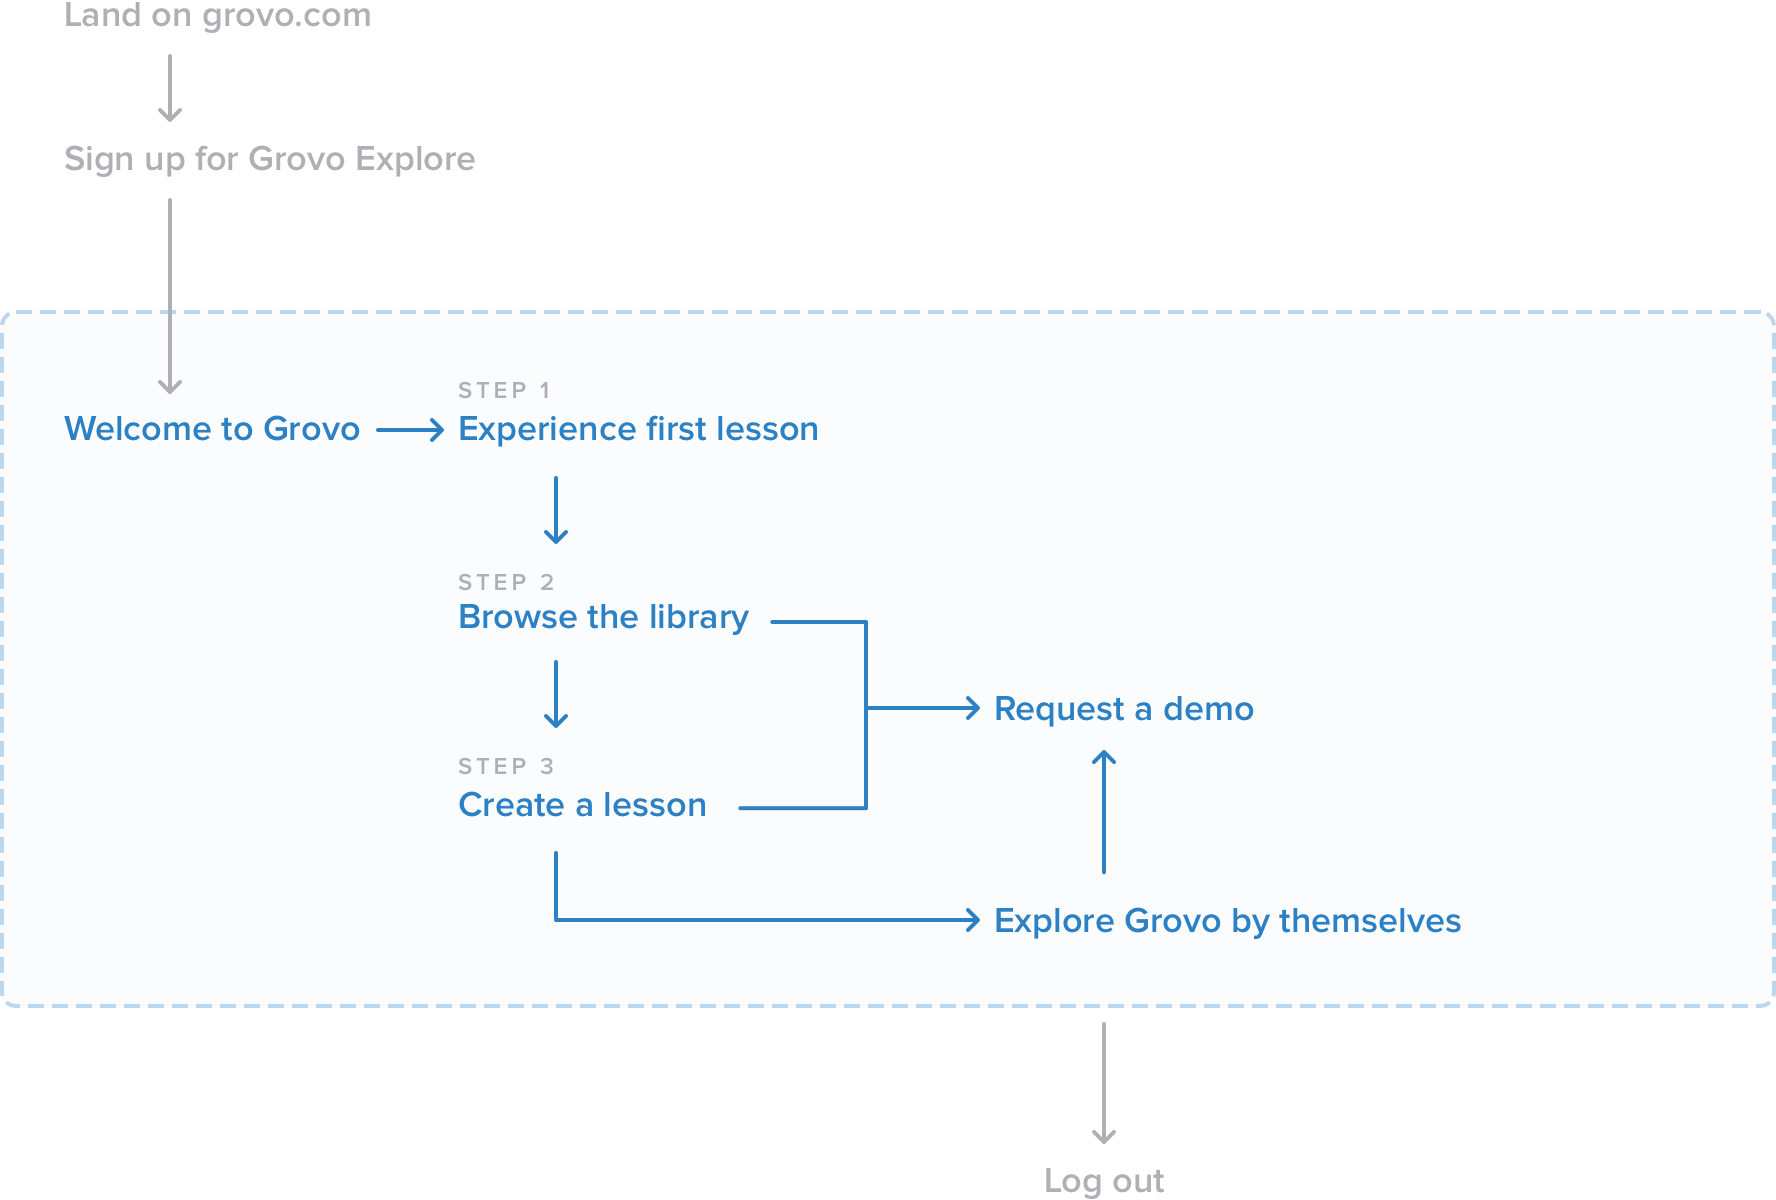
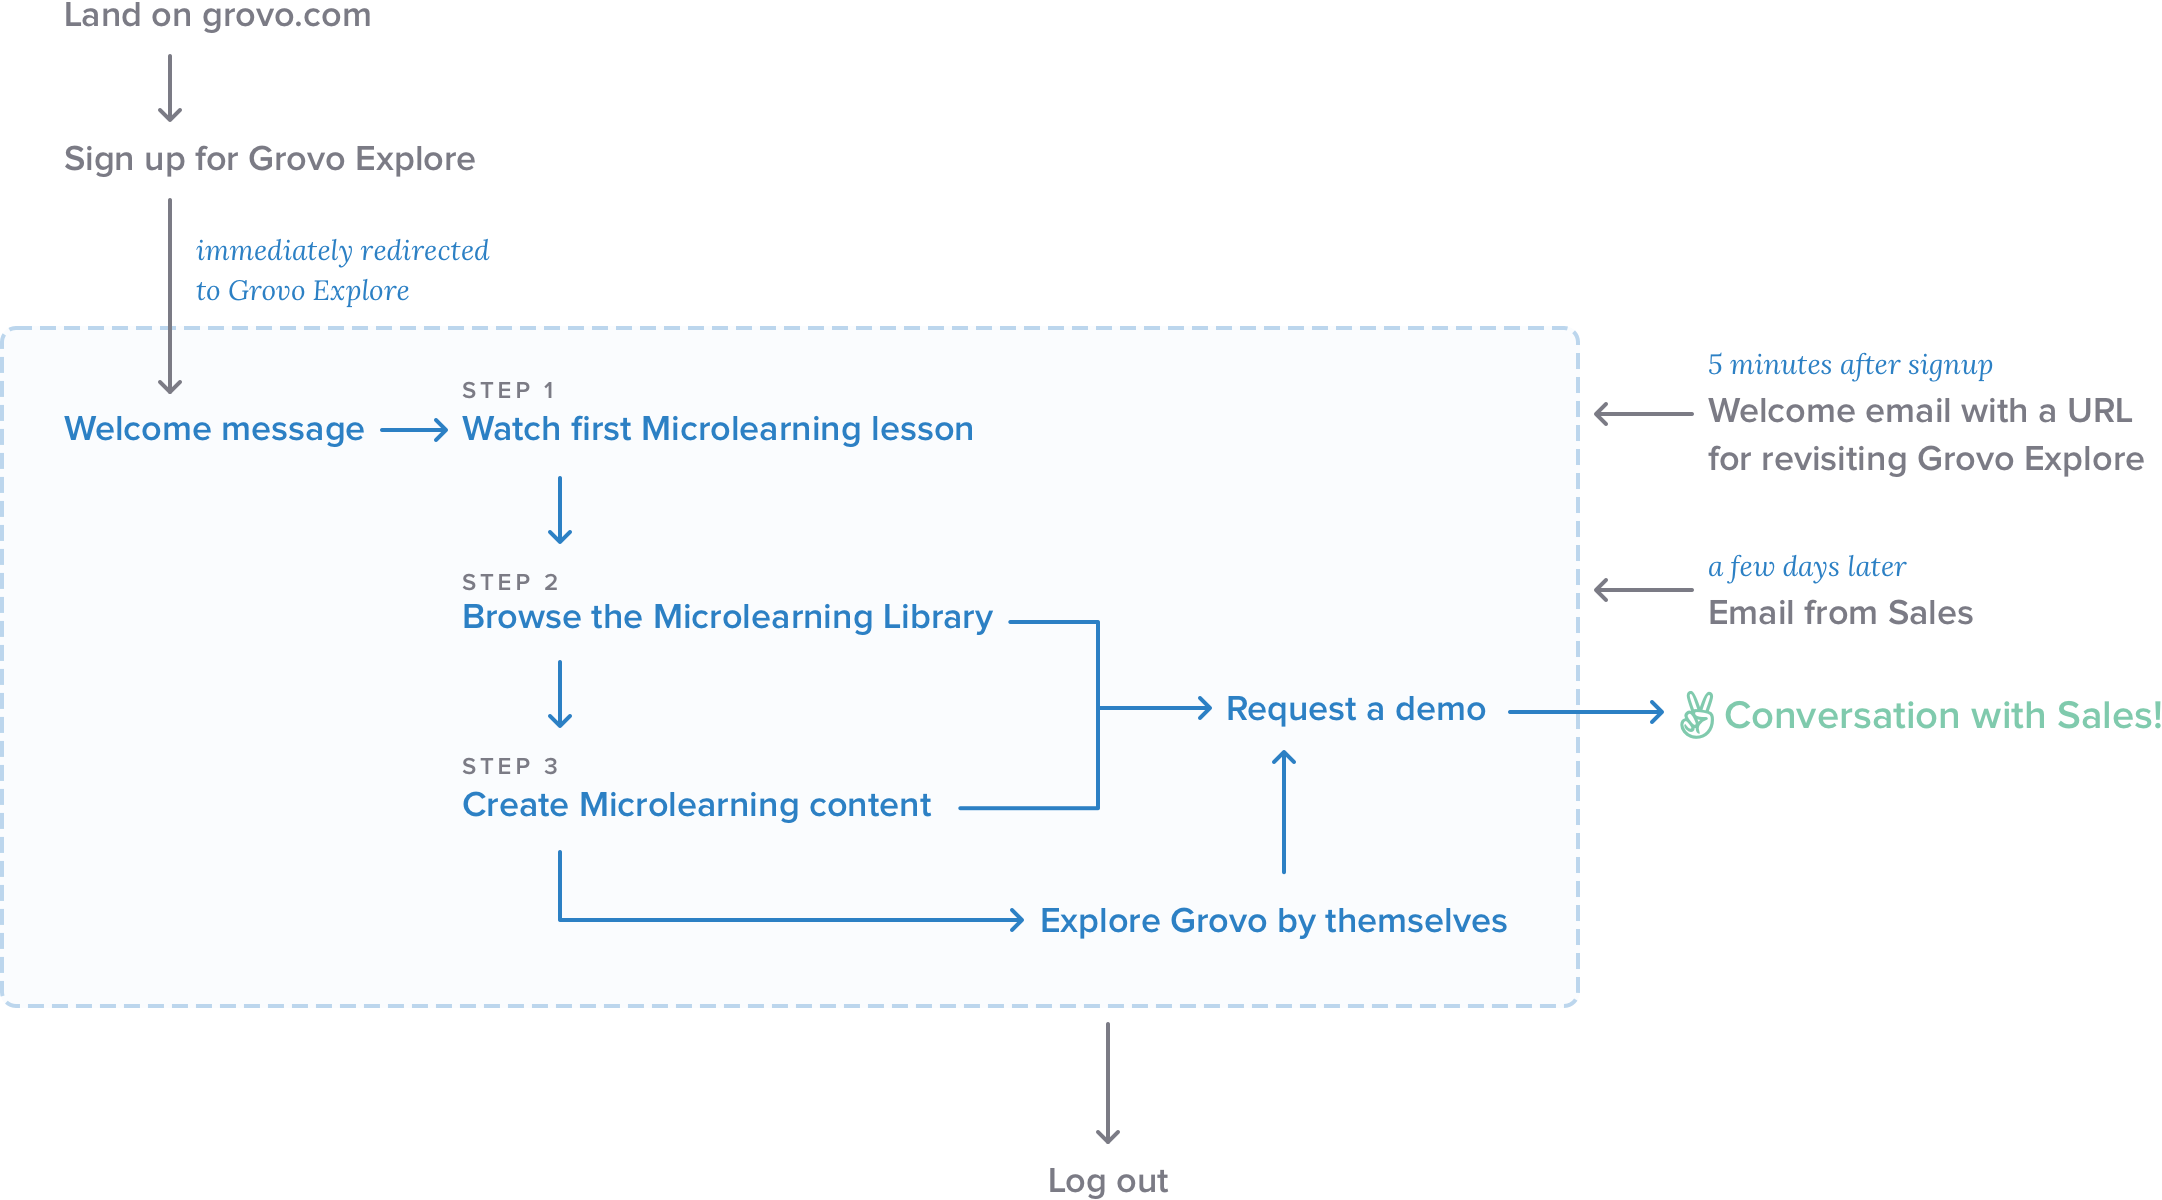
update

diff --git a/Proj_explore.html b/Proj_explore.html
@@ -44,9 +44,8 @@
                 <div class="col-md-10 col-md-offset-1 col-xs-12 col-sm-12">
                     <div class="details">
                         <h4><i class="fa fa-question-circle"></i> &nbsp; Problem</h4>
-                        <p><strong>Grovo didn't provide an engaging and easy way for potential buyers to get to know about Grovo's Microlearning solution.</strong></p>
-                        <p><strong class="color-text">1. </strong> Requesting a demo was the only way for potential buyers to get a better understanding of Grovo.</p>
-                        <p>But early stage potential buyers are often not ready to speak with a salesperson before getting a better understanding of the value of a particular solution.</p>
+                        <p><strong>Grovo didn't provide an engaging and easy way for potential buyers to better understand Grovo's Microlearning solution.</strong></p>
+                        <p><strong class="color-text">1. </strong> Requesting a demo was the only way for potential buyers to get a better understanding of Grovo. But early stage potential buyers are often not ready to speak with a salesperson before getting a better understanding of the value of a particular solution.</p>
                         <p> <strong class="color-text">2. </strong> Request-a-demo form was too serious and scared away a lot of people.</p>
                         <p>Data from Google Analytics show there is a major drop off once people land on the Learn More page; only 15% of visitors that land on the Learn More page actually submit their information to request a demo.
                         </p>
@@ -79,7 +78,7 @@
                     <div class="details">
                         <h4><i class="fa fa-quote-left"></i> &nbsp; Research and findings</h4>
                         <p>
-                            Firstly, I conducted competitive research on product tours. Here is a collection of different product tours I went through: <a class="color-text" href="http://bit.ly/2BgBi8Q" target="_blank">http://bit.ly/2BgBi8Q</a>
+                            Firstly, I conducted research on product tours. Here is a collection of different product tours I went through: <a class="color-text" href="http://bit.ly/2BgBi8Q" target="_blank">http://bit.ly/2BgBi8Q</a>
                         </p>
                         <p>
                             Through my research there are mainly 2 types of product tours:
@@ -132,7 +131,7 @@
                     <div class="details">
                         <h4><i class="fa fa-random" aria-hidden="true"></i> &nbsp; User flow</h4>
                         <p>
-                            Based on learning theory, creating Microlearning content is harder than browsing the Microlearning Library, which is harder than watching Microlearning lessons. Therefore, to encourage users to want to learn about these 3 features, I structured the guided tour from easiest to hardest. 
+                            Because creating Microlearning content is harder than browsing the Microlearning Library and watching Microlearning lessons. I decided to guide people to go through these 3 features from easy to hard.
                         </p>
                         <p>
                             Below is an outline of the user flow of Grovo Explore:
